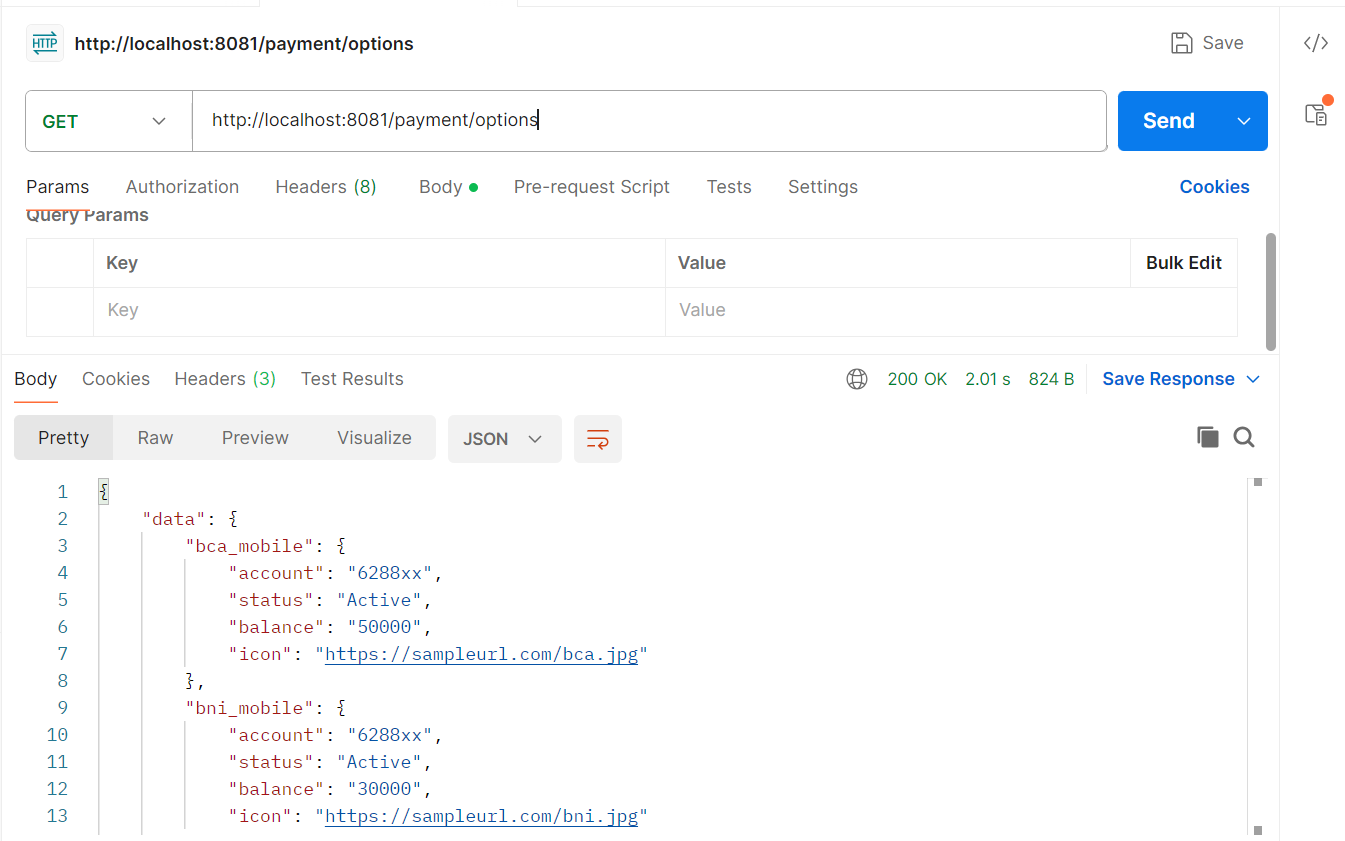
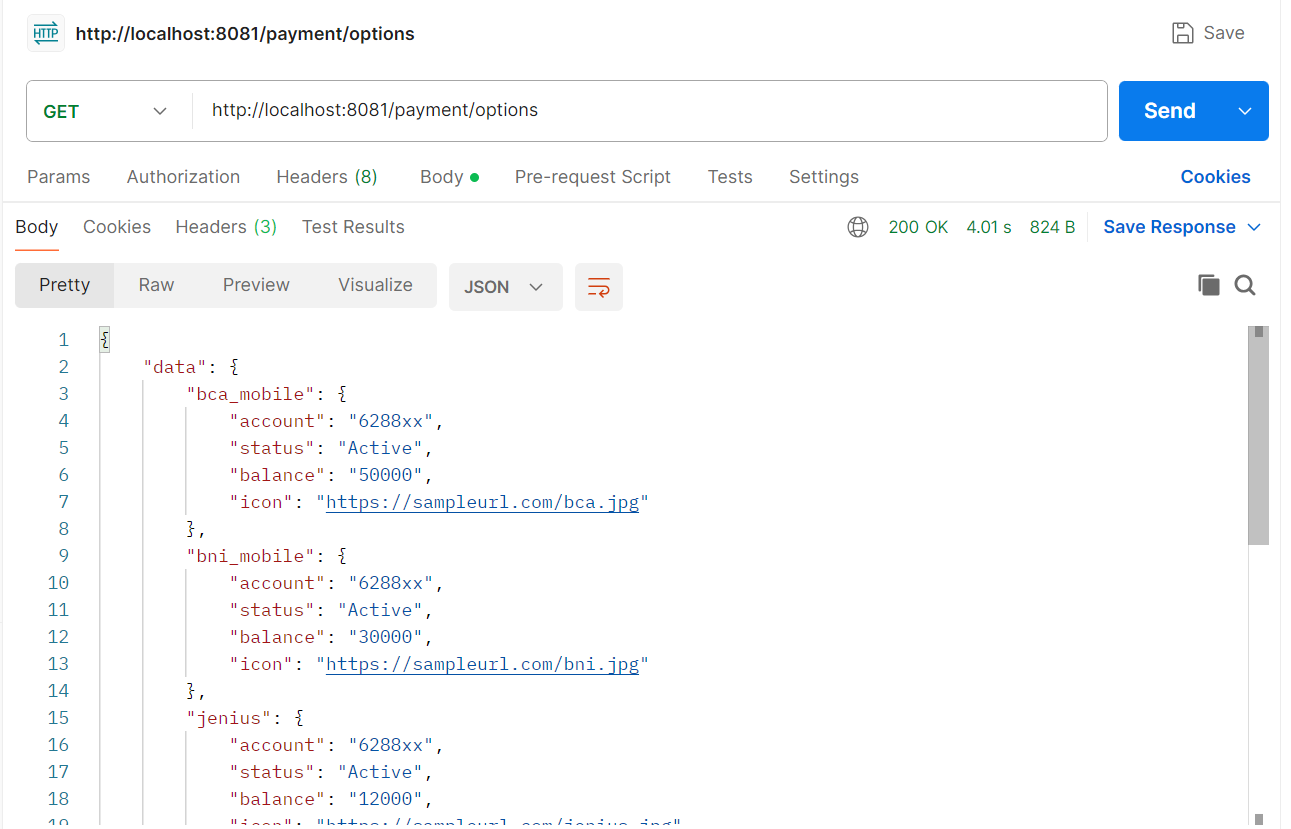
update

diff --git a/internal/repository/payment_repository_impl.go b/internal/repository/payment_repository_impl.go
@@ -2,7 +2,7 @@ package repository
 
 import (
 	"payment-options/internal/models"
-	// "time"
+	"time"
 )
 
 type paymentRepo struct{}
@@ -12,7 +12,7 @@ func NewPaymentRepo() PaymentRepository {
 }
 
 func (r *paymentRepo) CallBCAMobile() models.PaymentMethod {
-	// time.Sleep(2 * time.Second) // Simulate network delay
+	time.Sleep(4 * time.Second) // Simulate network delay
 	return models.PaymentMethod{
 		Account: "6288xx",
 		Status:  "Active",
